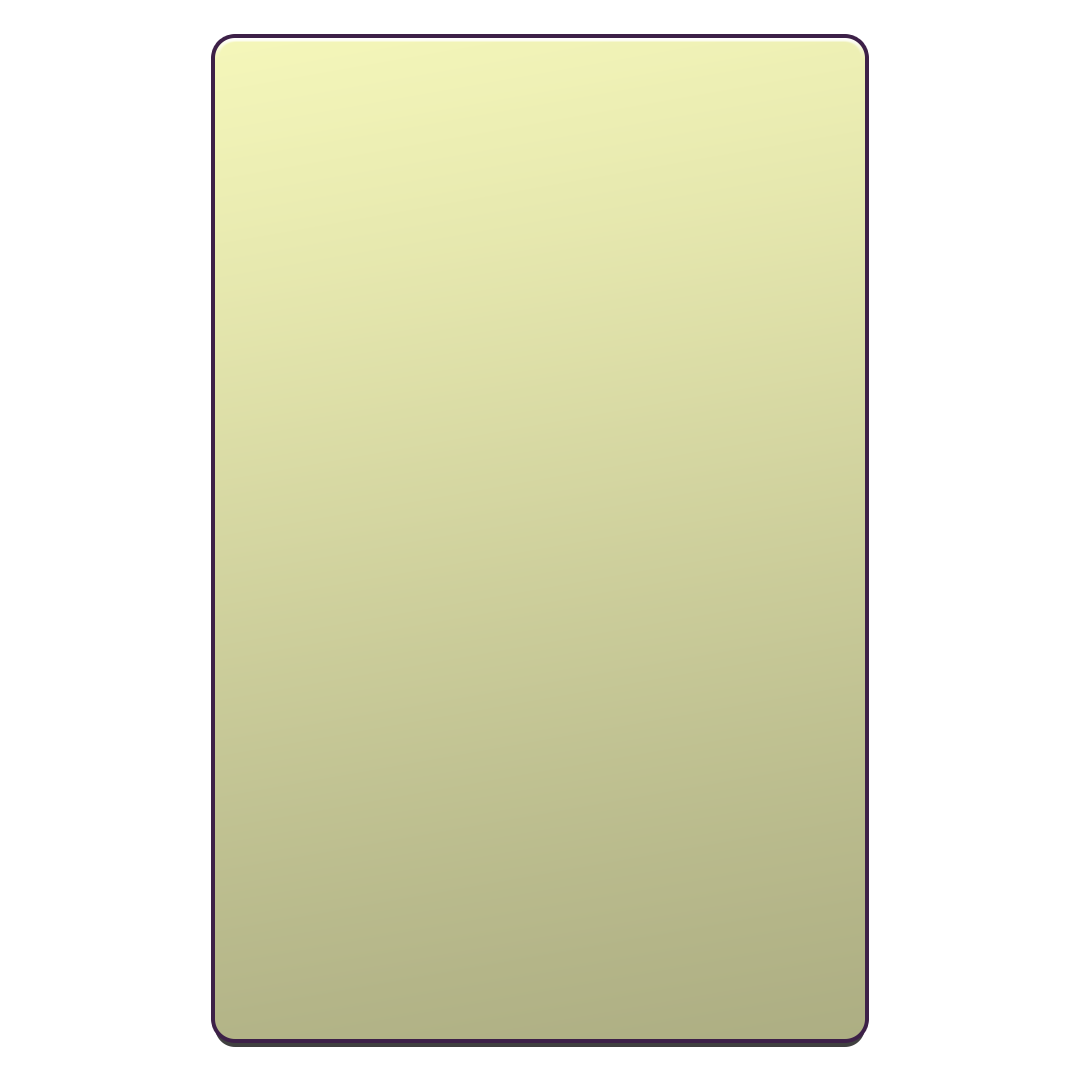
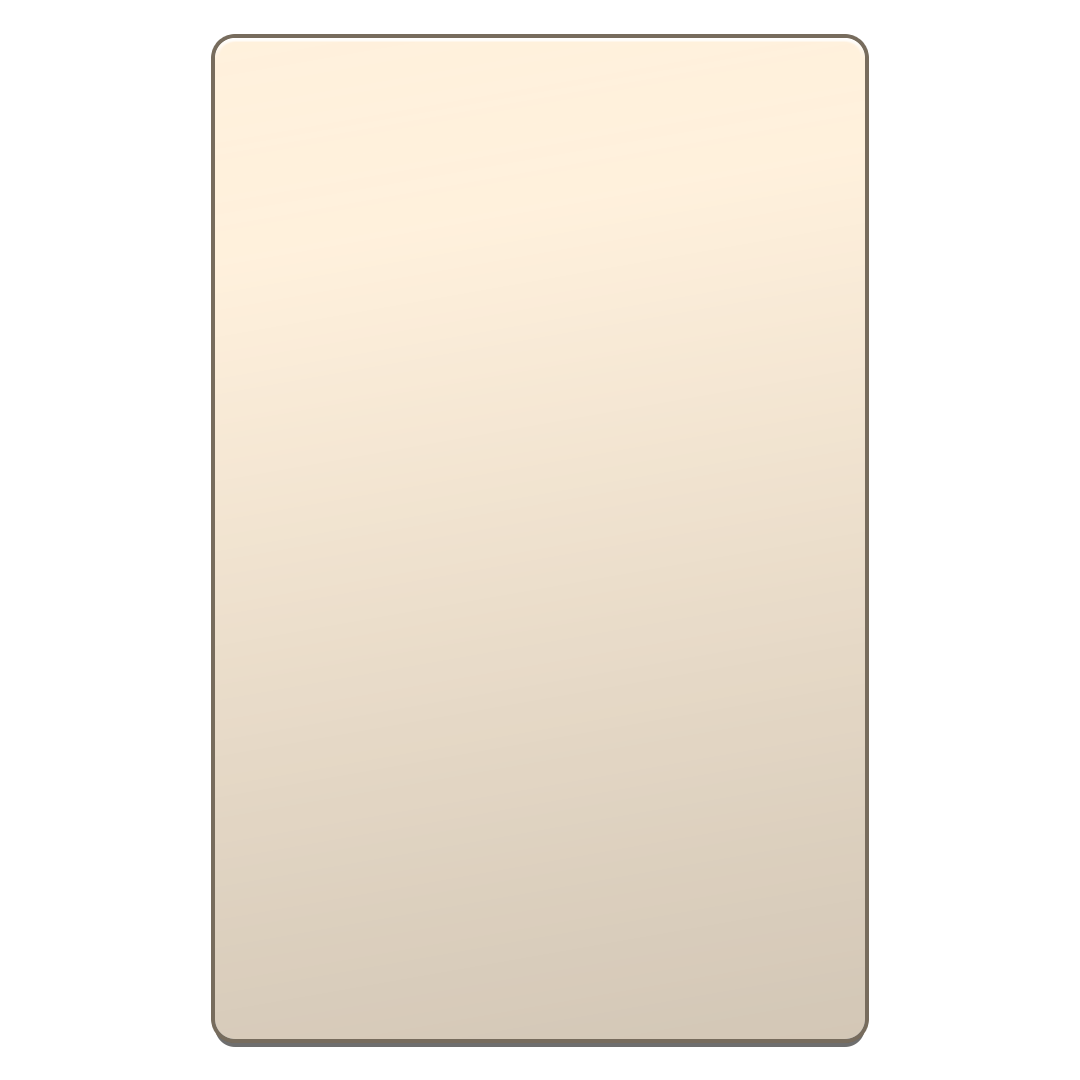
feat(aturjadwal): recolour the card background from olive to cream
One texture backs both the activity card and the PERINGATAN dialog at
two different region_rects, so replacing it in place fixes both without
touching either call site.

A straight luminance map turned the body flat grey: the olive's problem
is its yellow-green hue, not its brightness. Rotating the hue to 35 in
HSV and desaturating instead keeps every bit of the original structure
-- body #EEE1CE, highlights #FFF1DD, and the bottom rim survives as a
warm #776C5D rather than the old purple-black.

Dimensions held at 1080x1080; both call sites address this image with
hardcoded region_rects and any resize would break them silently.

Verified: atur_jadwal 38/38. Visual check deferred to the task 4 gate,
where the hairlines land and the card can be judged as a whole.

diff --git a/CLAUDE.md b/CLAUDE.md
@@ -438,6 +438,21 @@ fallback wants the same treatment.
 `icon_shop_cosmetics` (`Assets/Images/Shop/UI/`) are flat geometry standing in
 for real art, like the rest of that folder.
 
+**`penjadwalan_card_bg.png` is a generated recolour (2026-09-10).** The
+AturJadwal card and its PERINGATAN dialog share one texture at two different
+`region_rect`s, so the cream pass replaced the file in place rather than
+re-authoring both call sites. It was produced by rotating the original olive
+art's hue into the warm family in HSV (PowerShell + `System.Drawing`), not
+hand-authored. Drop-replaceable at the same path -- but any replacement must
+keep the exact original 1080x1080 dimensions, because both call sites address
+it with hardcoded `region_rect` values.
+
+**Three orphaned tokens (2026-09-10).** `preview_row_shadow_color`,
+`preview_row_shadow_size` and `preview_row_shadow_offset` are read by no theme
+variation since `PreviewRow` lost its drop shadow in the cream pass. They were
+left in place rather than widening that diff. Remove them deliberately, or give
+them a consumer.
+
 **Deferred: the AturJadwal shelf.** It ships as two `ColorRect`s rather than the
 intended `ShelfEdge` theme variation. A new `@export` on `DesignTokens` is
 invisible to a running editor, so this needs an editor restart plus a manual
